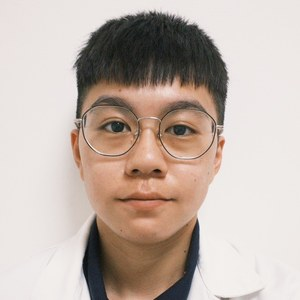
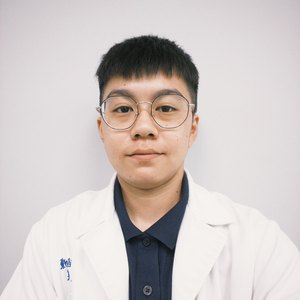
換上王佩琪治療師真實照片 th_photos/1.jpg;照片快取版本升 v13

diff --git a/index.html b/index.html
@@ -1033,7 +1033,7 @@ function renderTherapistSelect(el) {
               <div style="height:4px;border-radius:2px;margin-top:8px;width:90%;background:linear-gradient(90deg,${t.color||'#5689bc'}59,transparent)"></div>
             </div>
           </div>
-          <div class="th-avatar glove-avatar" style="background:var(--surface);background-image:linear-gradient(${p.bg},${p.bg});color:${p.color};border:1.5px solid ${state.therapistId===t.id?'var(--warm)':'var(--border)'}">${t.name[0]}<img src="th_photos/${t.id}.jpg?v=12" alt="" style="position:absolute;inset:0;width:100%;height:100%;object-fit:cover;border-radius:50%;z-index:2" onerror="this.remove()"></div>
+          <div class="th-avatar glove-avatar" style="background:var(--surface);background-image:linear-gradient(${p.bg},${p.bg});color:${p.color};border:1.5px solid ${state.therapistId===t.id?'var(--warm)':'var(--border)'}">${t.name[0]}<img src="th_photos/${t.id}.jpg?v=13" alt="" style="position:absolute;inset:0;width:100%;height:100%;object-fit:cover;border-radius:50%;z-index:2" onerror="this.remove()"></div>
         </div>`;
       }).join('')}
     </div>
